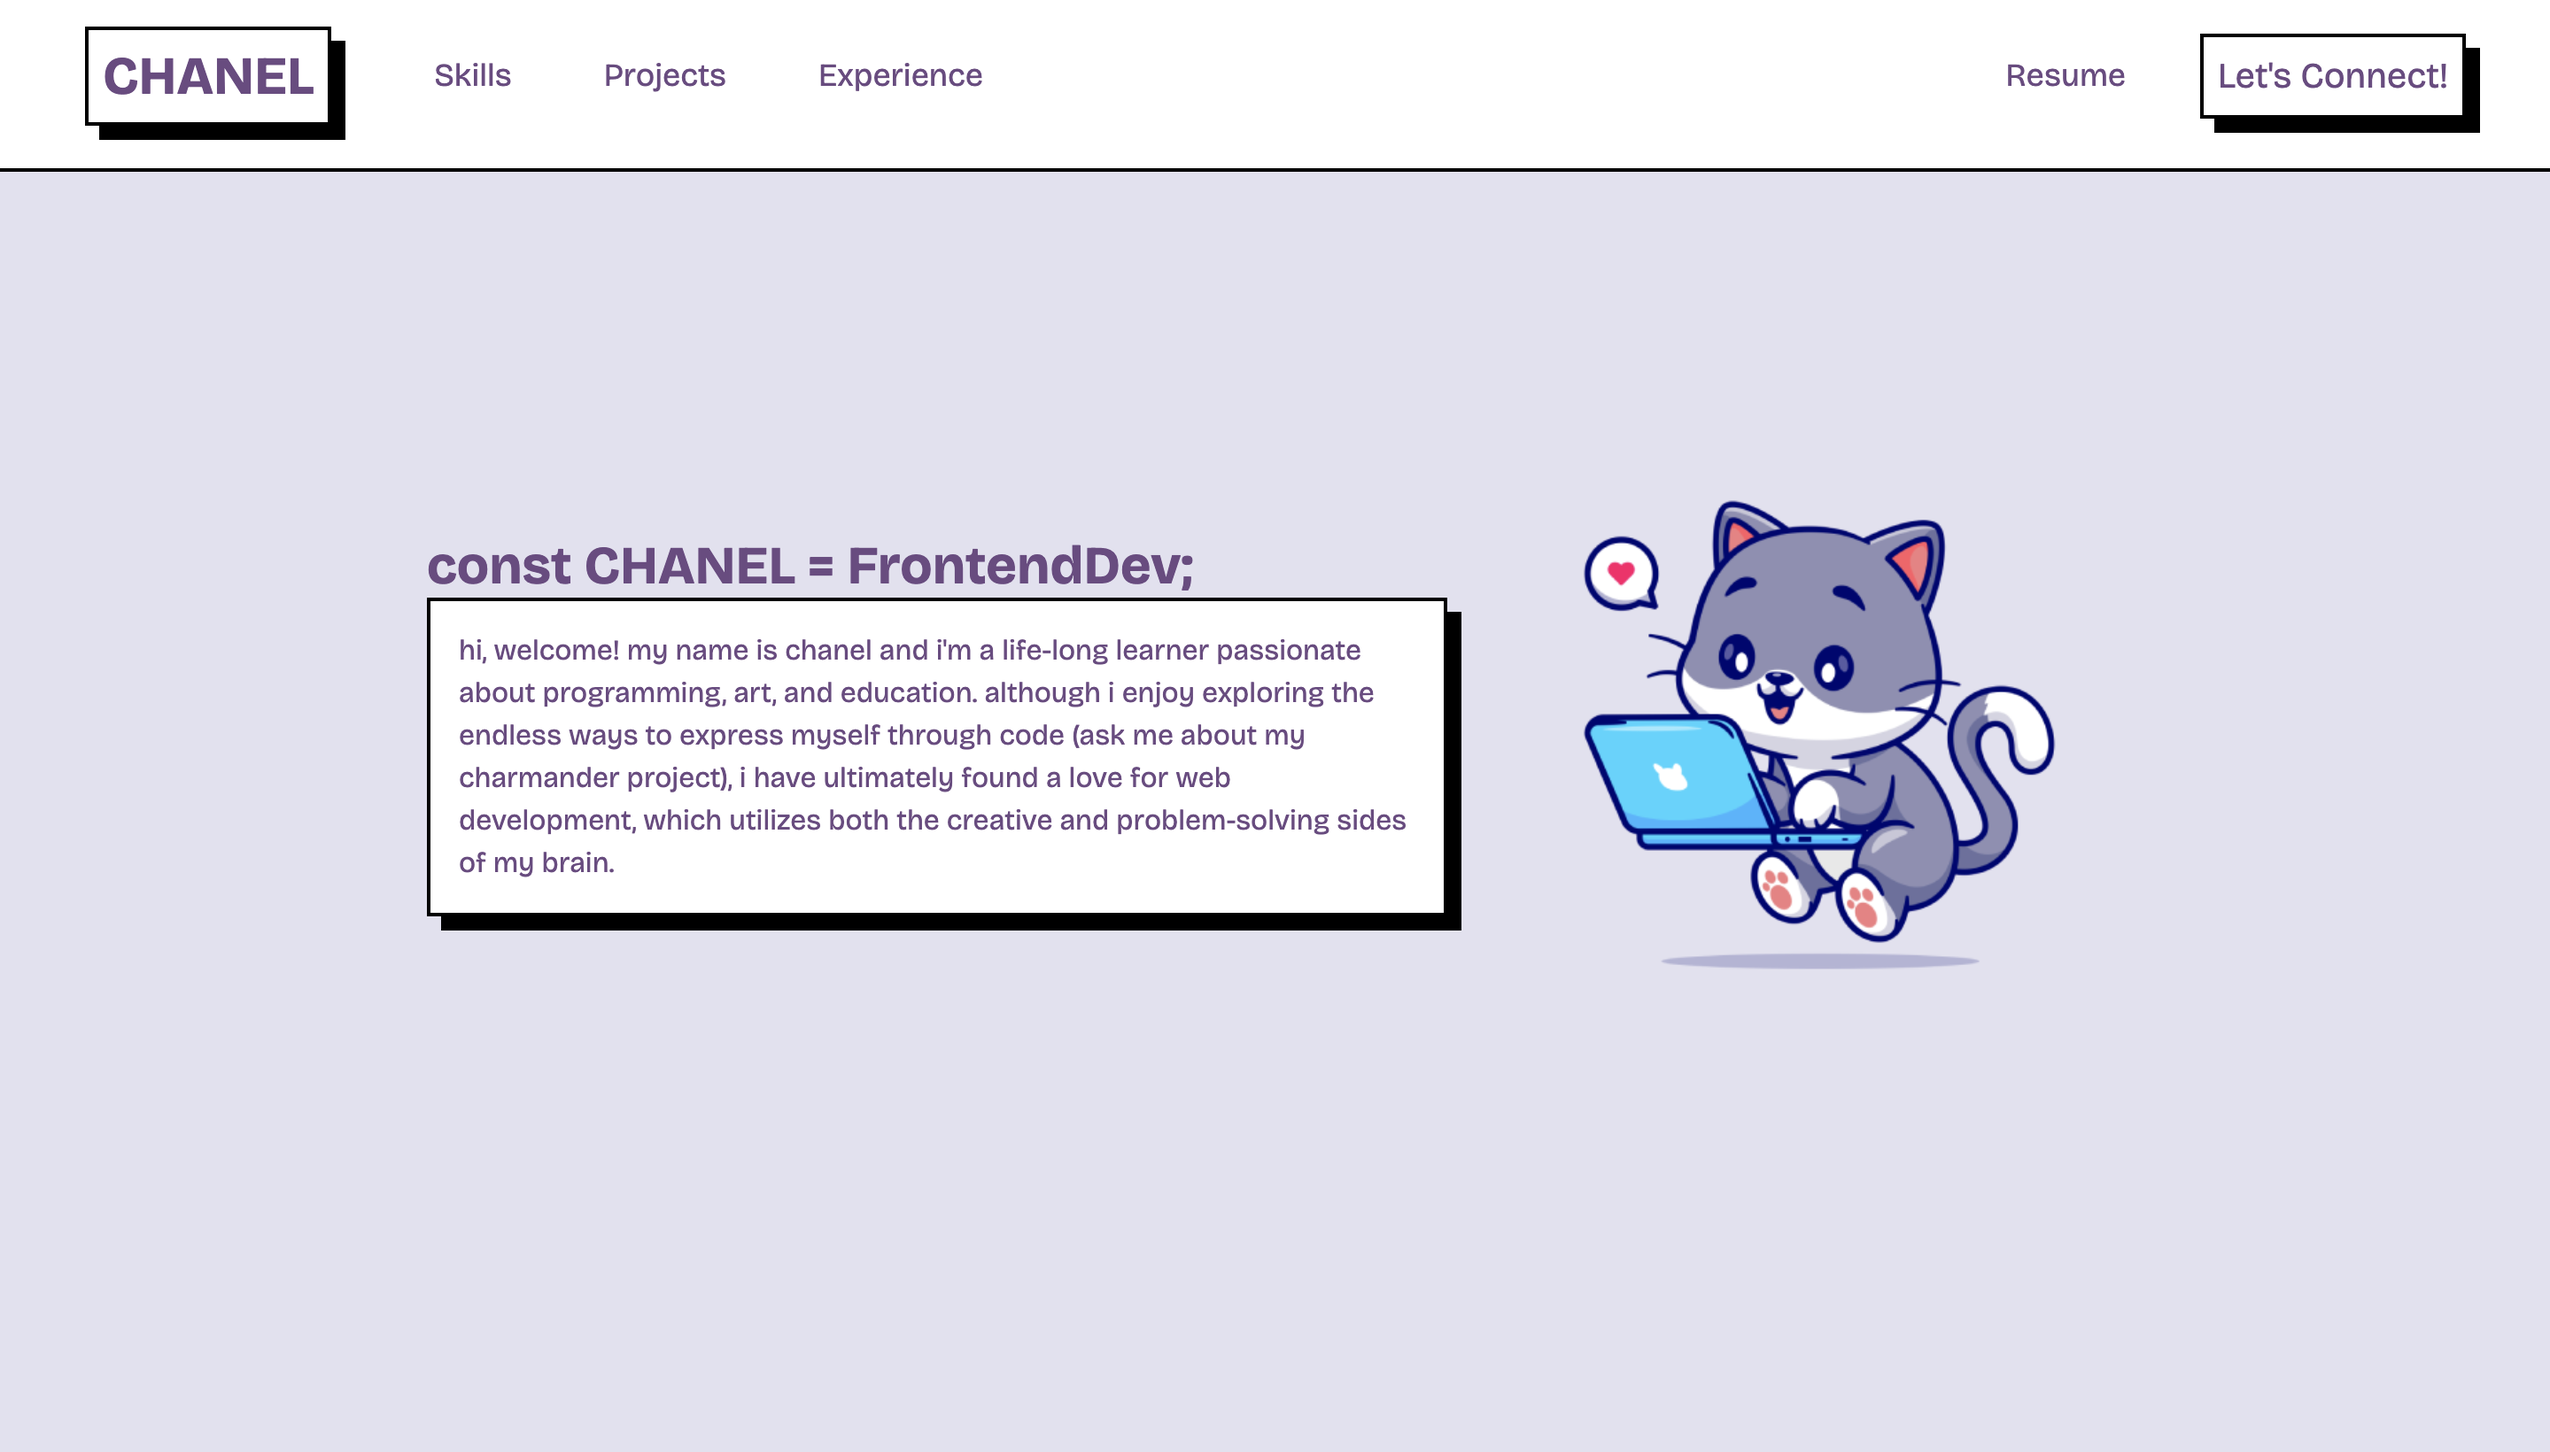
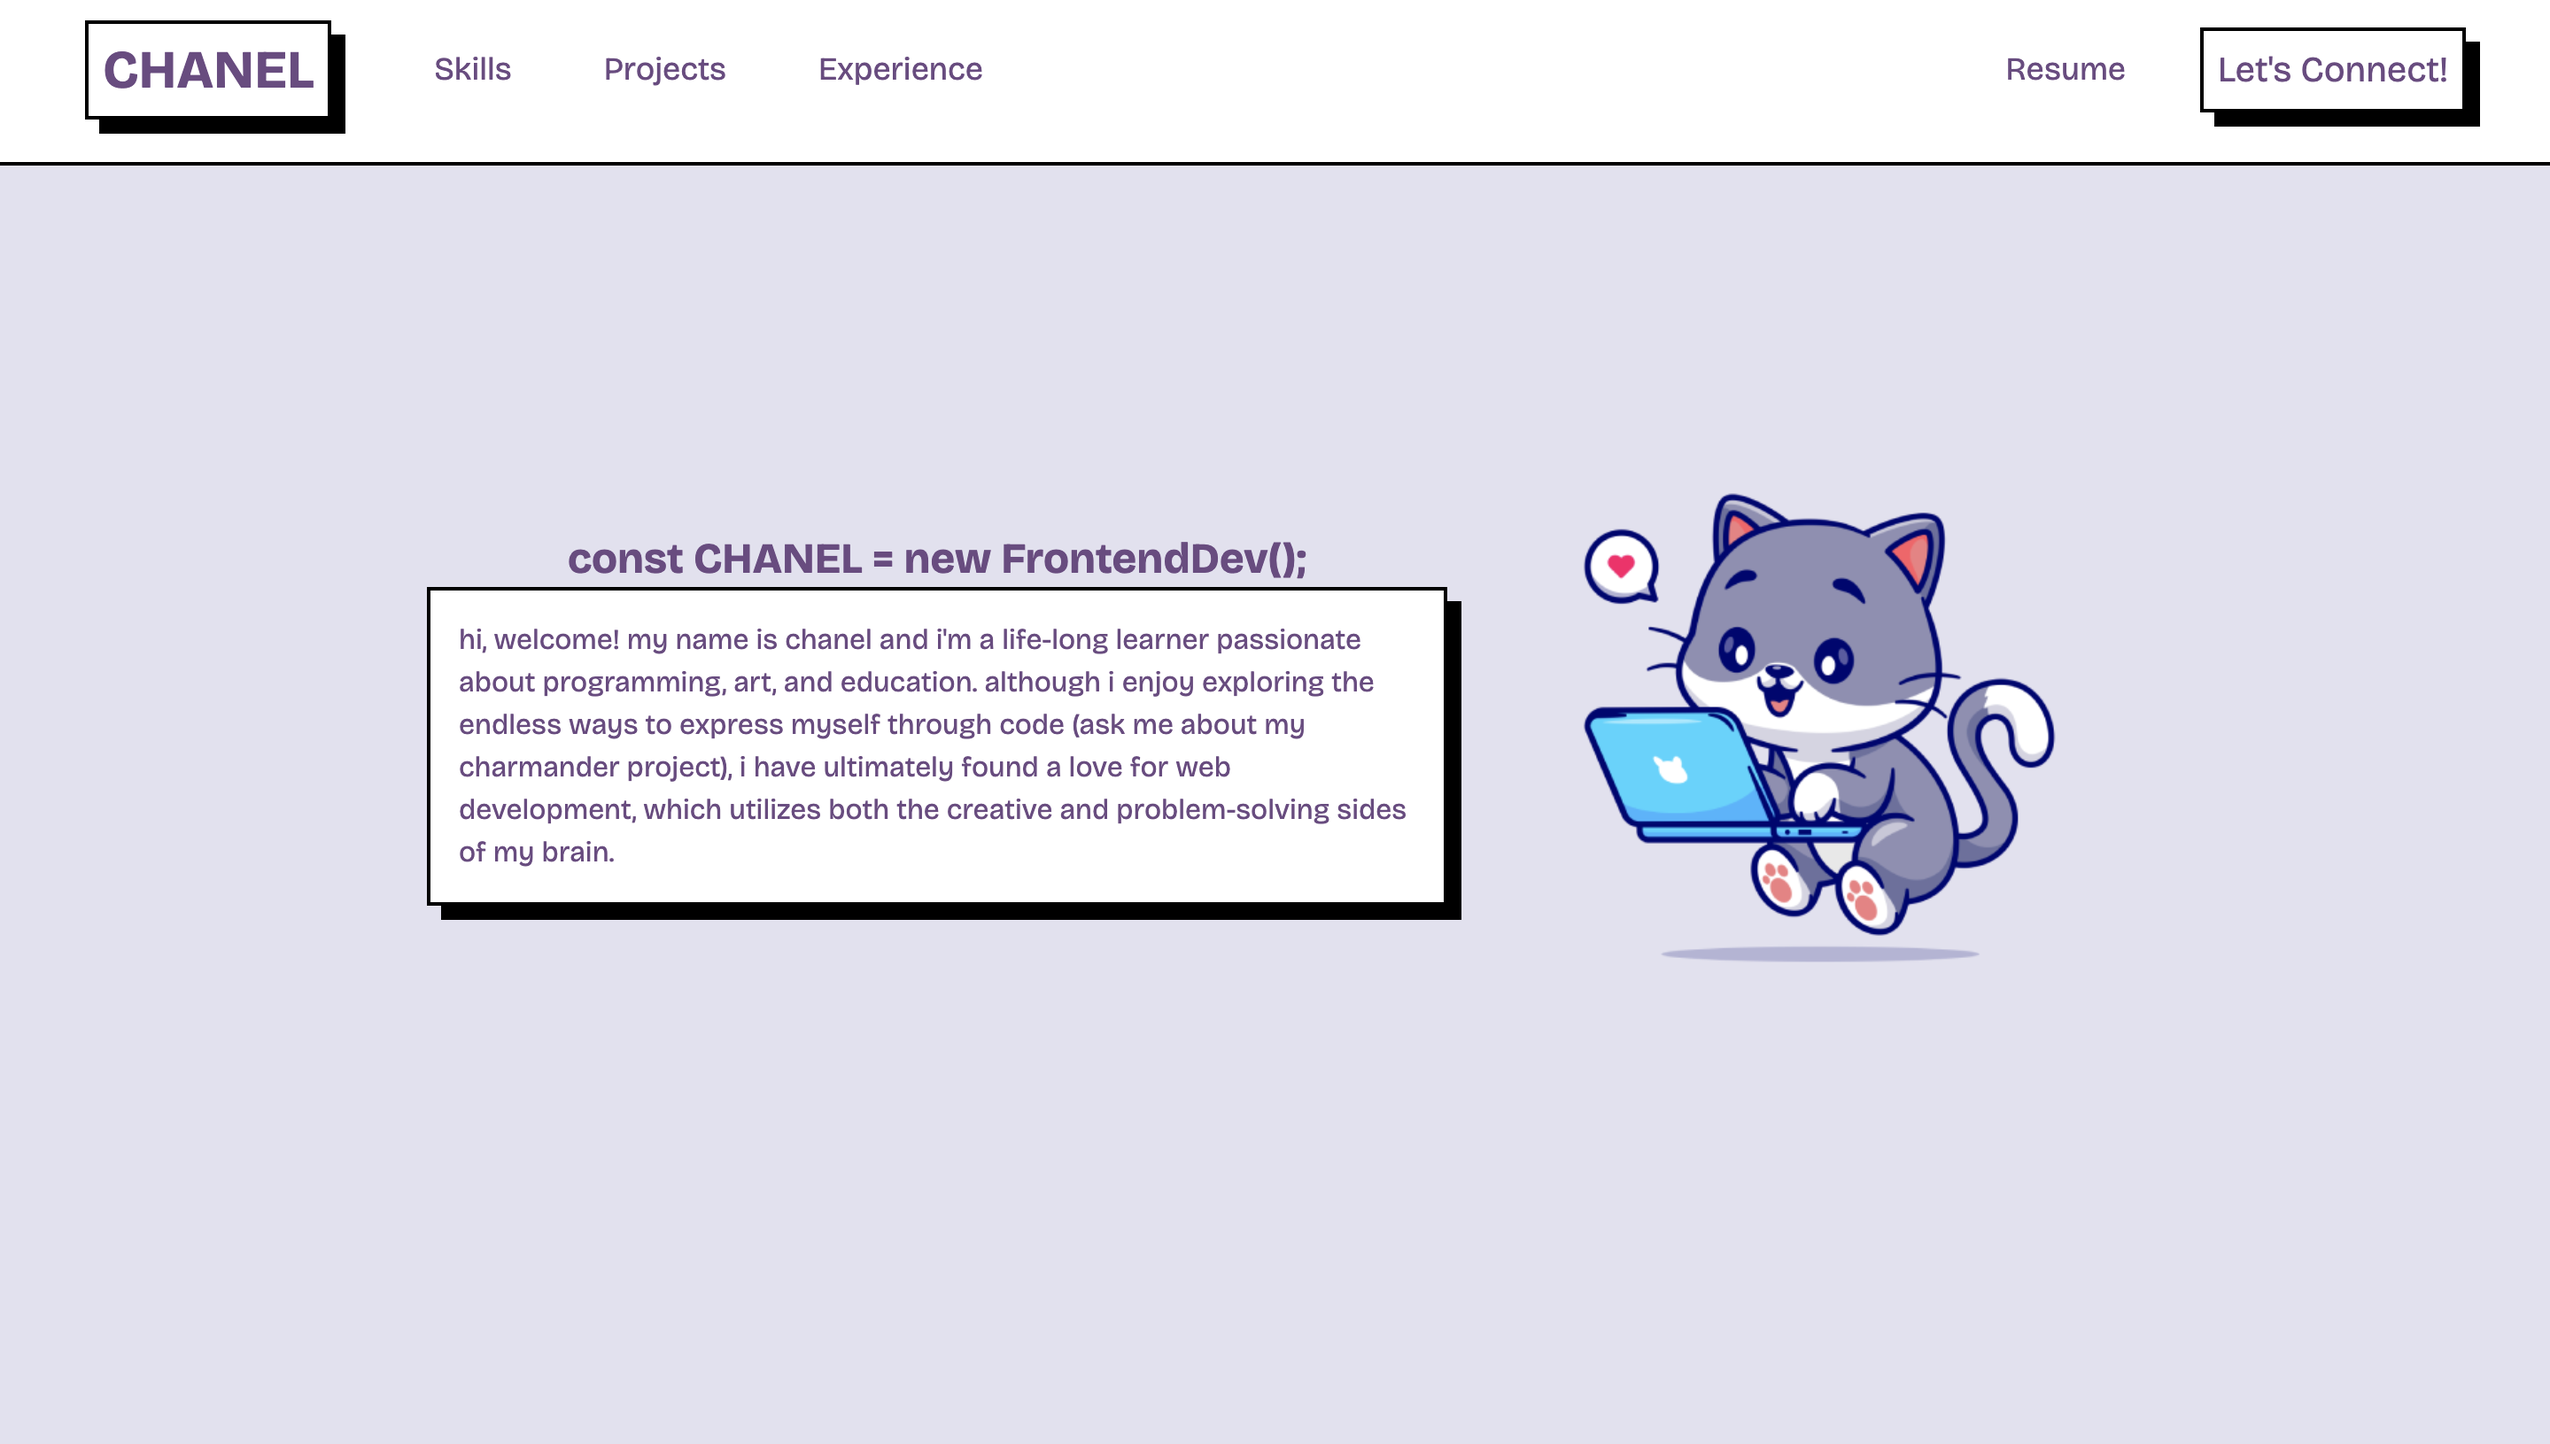
minor graphics and design changes

diff --git a/src/scenes/projects/index.tsx b/src/scenes/projects/index.tsx
@@ -2,7 +2,7 @@ import { SelectedPage } from '@/shared/types';
 import { motion } from 'framer-motion';
 import useProjectsArr from '@/hooks/useProjectsArr';
 import useMediaQuery from '@/hooks/useMediaQuery';
-import { AiOutlineLeftSquare, AiOutlineRightSquare } from "react-icons/ai";
+import { AiOutlineLeft, AiOutlineRight } from "react-icons/ai";
 
 type Props = {
     setSelectedPage: (value: SelectedPage) => void;
@@ -10,8 +10,9 @@ type Props = {
 
 const Projects = ({ setSelectedPage }: Props) => {
     const isAboveMediumScreens = useMediaQuery("(min-width: 1060px)");
-    const desktopStyles = "border-2 border-black shadow-opaque w-[85vw] md:w-4/5 md:h-full object-cover";
-    const mobileStyles = "border-2 border-black shadow-opaque w-[20vw] md:w-[10vw] absolute left-[77vw] md:left-[69vw] object-cover";
+    const linkStyles = "p-2 m-4 bg-white border-2 border-black font-semibold hover:border-black hover:shadow-opaque";
+    const arrowStyles = "w-12 h-12 bg-white border-2 border-black hover:text-black hover:shadow-opaque";
+
     const { currentProject, pageNext, pagePrev } = useProjectsArr();
 
     return (
@@ -26,7 +27,7 @@ const Projects = ({ setSelectedPage }: Props) => {
                 {/* DESKTOP PREV PROJ ARROW */}
                 {isAboveMediumScreens && (
                     <button onClick={pagePrev}>
-                        <AiOutlineLeftSquare className="w-12 h-12 hover:text-black" />
+                        <AiOutlineLeft className={arrowStyles} />
                     </button>
                 )}
                 {/* PROJECT */}
@@ -63,7 +64,7 @@ const Projects = ({ setSelectedPage }: Props) => {
                                     x: 0
                                 }
                             }}
-                            className={desktopStyles}
+                            className="border-2 border-black shadow-opaque w-[85vw] md:w-4/5 md:h-full object-cover"
                             src={currentProject.desktopImg} alt={`${currentProject.title} desktop view`}
                         />
                         <motion.img
@@ -82,32 +83,36 @@ const Projects = ({ setSelectedPage }: Props) => {
                                     x: 0
                                 }
                             }}
-                            className={mobileStyles}
+                            className="border-2 border-black shadow-opaque w-[20vw] absolute object-cover 
+                                left-[77vw] md:left-[69vw] md:w-[10vw]"
                             src={currentProject.mobileImg} alt={`${currentProject.title} mobile view`}
                         />
                     </div>
 
                     {/* LINKS */}
+                    <div className='flex justify-center items-center gap-4'>
+                        <a href={currentProject.demoLink} target='_blank' className={linkStyles}>DEMO</a>
+                        <a href={currentProject.codeLink} target='_blank' className={linkStyles}>CODE</a>
+                    </div>
 
+                    {/* MOBILE PREV/NEXT PROJ ARROWS */}
+                    {!isAboveMediumScreens && (
+                        <div className='w-full flex justify-between items-center'>
+                            <button onClick={pagePrev}>
+                                <AiOutlineLeft className={arrowStyles} />
+                            </button>
+                            <button onClick={pageNext}>
+                                <AiOutlineRight className={arrowStyles} />
+                            </button>
+                        </div>
+                    )}
                 </div>
 
                 {/* DESKTOP NEXT PROJ ARROW */}
                 {isAboveMediumScreens && (
                     <button onClick={pageNext}>
-                        <AiOutlineRightSquare className="w-12 h-12 hover:text-black" />
+                        <AiOutlineRight className={arrowStyles} />
                     </button>
-                )}
-
-                {/* MOBILE PREV/NEXT PROJ ARROWS */}
-                {!isAboveMediumScreens && (
-                    <div className='flex gap-12 justify-center items-center pt-10'>
-                        <button onClick={pagePrev}>
-                            <AiOutlineLeftSquare className="w-12 h-12 hover:text-black" />
-                        </button>
-                        <button onClick={pageNext}>
-                            <AiOutlineRightSquare className="w-12 h-12 hover:text-black" />
-                        </button>
-                    </div>
                 )}
             </motion.div>
         </section>

diff --git a/src/data/projects/index.tsx b/src/data/projects/index.tsx
@@ -22,7 +22,7 @@ import RPSMobile from '@/assets/RockPaperScissorsMobile.png';
 
 const index = [
     {
-        title: "Pilates Gym",
+        title: "Yoga Gym",
         demoLink: "https://pilates-site.pages.dev/",
         codeLink: "https://github.com/birdpersonn/pilates-site",
         desktopImg: PilatesDesktop,
@@ -49,7 +49,7 @@ const index = [
     {
         title: "Portfolio",
         demoLink: "https://birdpersonn.github.io/library/",
-        codeLink: "https://github.com/birdpersonn/library",
+        codeLink: "https://github.com/birdpersonn/birdpersonn.github.io",
         desktopImg: PortfolioDesktop,
         mobileImg: PortfolioMobile,
         icons: [

diff --git a/src/scenes/home/index.tsx b/src/scenes/home/index.tsx
@@ -34,9 +34,9 @@ const index = ({ setSelectedPage }: Props) => {
                     className="w-11/12 md:w-2/5"
                 >
                     <h1
-                        className="font-semibold text-xl md:text-3xl"
+                        className="font-extrabold text-lg text-center md:text-2xl"
                     >
-                        const CHANEL = FrontendDev;
+                        const CHANEL = new FrontendDev();
                     </h1>
                     <h2
                         className="border-2 border-black shadow-opaque bg-white p-4"
